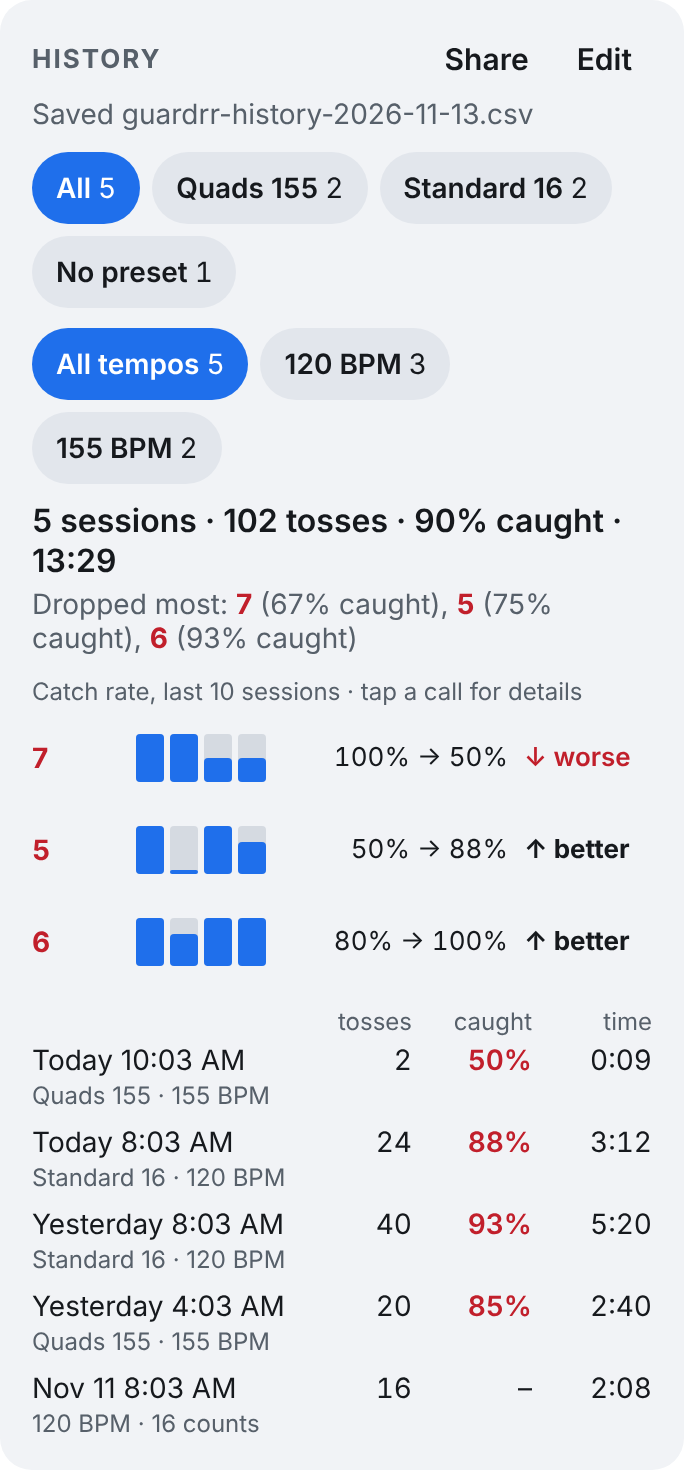
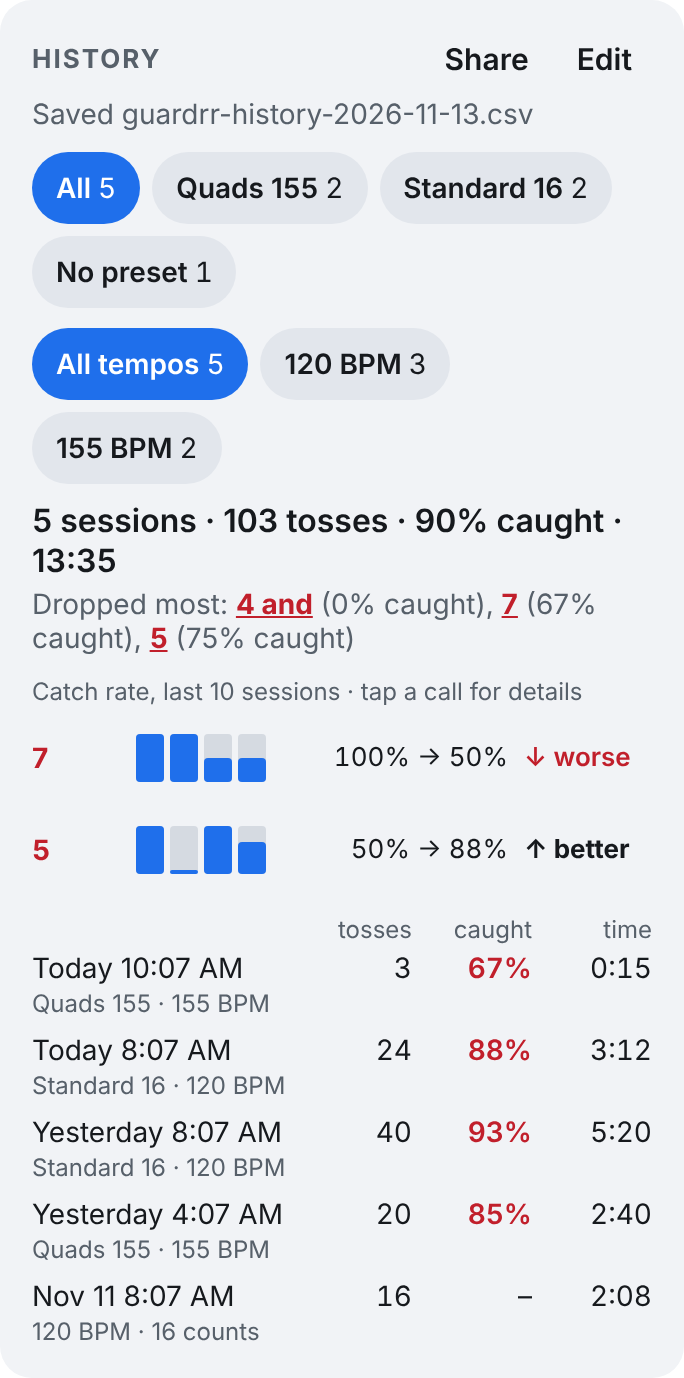
feat(ui): open a call's sessions from "Dropped most" in History
Each call under "Dropped most" is now tappable. A call with a trend opens
its detail under its trend row as before; a call seen in only one session
(no trend yet) opens it right under the "Dropped most" line
(callDetailAnchor). Smoke test and screenshot 21-dropped-detail added.

Claude-Session: https://claude.ai/code/session_01UV53BFdtzkwkUA4NLRTMzv

diff --git a/src/components/SessionHistoryCard.tsx b/src/components/SessionHistoryCard.tsx
@@ -11,6 +11,7 @@ import {
   TREND_SESSIONS,
   TrendDirection,
   callDetail,
+  callDetailAnchor,
   callTrends,
   combinedFilterLabel,
   deletionMessage,
@@ -194,6 +195,57 @@ export function SessionHistoryCard({
     () => (detailCall === null ? null : callDetail(shown, detailCall, nowMs)),
     [shown, detailCall, nowMs],
   );
+  const detailAnchor = callDetailAnchor(
+    trends.map((t) => t.call),
+    detail ? detail.call : null,
+  );
+  const detailPanel = detail ? (
+    <View style={styles.detailPanel} testID="history-call-detail">
+      <View style={styles.detailHeader}>
+        <Text style={styles.detailTitle} accessibilityRole="header">
+          {detail.label} — every session
+        </Text>
+        <Pressable
+          testID="history-call-detail-close"
+          onPress={() => setDetailCall(null)}
+          accessibilityRole="button"
+          accessibilityLabel={`Close ${detail.label} sessions`}
+          hitSlop={8}
+          style={({ pressed }) => [styles.headerButton, pressed && styles.morePressed]}
+        >
+          <Text style={styles.headerButtonText}>Close</Text>
+        </Pressable>
+      </View>
+      <Text style={styles.detailSummary}>
+        {detail.sessions} {detail.sessions === 1 ? 'session' : 'sessions'} · {detail.tosses}{' '}
+        {detail.tosses === 1 ? 'toss' : 'tosses'} · {detail.caught} caught
+      </Text>
+      {detail.rows.map((row) => (
+        <View
+          key={row.startedAt}
+          style={styles.detailRow}
+          accessible
+          accessibilityLabel={row.accessibilityLabel}
+        >
+          <View style={styles.dateColumn}>
+            <Text style={styles.date} numberOfLines={1}>
+              {row.date}
+            </Text>
+            <Text style={styles.detail} numberOfLines={1}>
+              {row.drill}
+            </Text>
+          </View>
+          <Text style={styles.detailCaughtOf}>{row.caughtOf}</Text>
+          <Text style={[styles.cell, row.drops > 0 && styles.dropped]}>{row.caught}</Text>
+        </View>
+      ))}
+      {detail.more > 0 ? (
+        <Text style={styles.detailMore}>
+          and {detail.more} older {detail.more === 1 ? 'session' : 'sessions'}
+        </Text>
+      ) : null}
+    </View>
+  ) : null;
   const editable = Boolean(onDelete || onClear);
   if (history.length === 0 && !editing && !undo) return null;
   const more = Math.min(shown.length, MANY_ROWS) - summary.rows.length;
@@ -334,21 +386,39 @@ export function SessionHistoryCard({
           {summary.hardest.length > 0 ? (
             <Text style={styles.hardest}>
               Dropped most:{' '}
-              {summary.hardest.map((c, i) => (
-                <Text key={c.call}>
-                  {i > 0 ? ', ' : ''}
-                  <Text style={styles.hardestCall}>{c.label}</Text> ({c.caught} caught)
-                </Text>
-              ))}
+              {summary.hardest.map((c, i) => {
+                const open = detail?.call === c.call;
+                return (
+                  <Text key={c.call}>
+                    {i > 0 ? ', ' : ''}
+                    <Text
+                      testID={`history-hardest-${c.call}`}
+                      onPress={() => setDetailCall(open ? null : c.call)}
+                      accessibilityRole="button"
+                      accessibilityState={{ expanded: open }}
+                      aria-expanded={open}
+                      accessibilityLabel={`${c.label}, ${c.caught} caught`}
+                      accessibilityHint={
+                        open ? 'Hides the sessions' : `Lists every session with a ${c.label}`
+                      }
+                      style={[styles.hardestCall, open && styles.hardestCallOpen]}
+                    >
+                      {c.label}
+                    </Text>{' '}
+                    ({c.caught} caught)
+                  </Text>
+                );
+              })}
             </Text>
           ) : null}
+          {detailAnchor === 'hardest' ? detailPanel : null}
           {trends.length > 0 ? (
             <View style={styles.trends} testID="history-trends">
               <Text style={styles.trendsTitle}>
                 Catch rate, last {TREND_SESSIONS} sessions · tap a call for details
               </Text>
               {trends.map((trend) => {
-                const open = detail?.call === trend.call;
+                const open = detailAnchor === 'trend' && detail?.call === trend.call;
                 return (
                   <Fragment key={trend.call}>
                     <Pressable
@@ -387,59 +457,7 @@ export function SessionHistoryCard({
                         {DIRECTION_TEXT[trend.direction]}
                       </Text>
                     </Pressable>
-                    {open && detail ? (
-                      <View style={styles.detailPanel} testID="history-call-detail">
-                        <View style={styles.detailHeader}>
-                          <Text style={styles.detailTitle} accessibilityRole="header">
-                            {detail.label} — every session
-                          </Text>
-                          <Pressable
-                            testID="history-call-detail-close"
-                            onPress={() => setDetailCall(null)}
-                            accessibilityRole="button"
-                            accessibilityLabel={`Close ${detail.label} sessions`}
-                            hitSlop={8}
-                            style={({ pressed }) => [
-                              styles.headerButton,
-                              pressed && styles.morePressed,
-                            ]}
-                          >
-                            <Text style={styles.headerButtonText}>Close</Text>
-                          </Pressable>
-                        </View>
-                        <Text style={styles.detailSummary}>
-                          {detail.sessions} {detail.sessions === 1 ? 'session' : 'sessions'} ·{' '}
-                          {detail.tosses} {detail.tosses === 1 ? 'toss' : 'tosses'} ·{' '}
-                          {detail.caught} caught
-                        </Text>
-                        {detail.rows.map((row) => (
-                          <View
-                            key={row.startedAt}
-                            style={styles.detailRow}
-                            accessible
-                            accessibilityLabel={row.accessibilityLabel}
-                          >
-                            <View style={styles.dateColumn}>
-                              <Text style={styles.date} numberOfLines={1}>
-                                {row.date}
-                              </Text>
-                              <Text style={styles.detail} numberOfLines={1}>
-                                {row.drill}
-                              </Text>
-                            </View>
-                            <Text style={styles.detailCaughtOf}>{row.caughtOf}</Text>
-                            <Text style={[styles.cell, row.drops > 0 && styles.dropped]}>
-                              {row.caught}
-                            </Text>
-                          </View>
-                        ))}
-                        {detail.more > 0 ? (
-                          <Text style={styles.detailMore}>
-                            and {detail.more} older {detail.more === 1 ? 'session' : 'sessions'}
-                          </Text>
-                        ) : null}
-                      </View>
-                    ) : null}
+                    {open ? detailPanel : null}
                   </Fragment>
                 );
               })}
@@ -587,7 +605,8 @@ const getStyles = themed((t: Theme) =>
     filterTextChecked: { color: t.onPrimary },
     filterCount: { fontWeight: '400', fontVariant: ['tabular-nums'] },
     hardest: { fontSize: 14, color: t.textMuted, marginTop: 4 },
-    hardestCall: { fontWeight: '700', color: t.dangerText },
+    hardestCall: { fontWeight: '700', color: t.dangerText, textDecorationLine: 'underline' },
+    hardestCallOpen: { backgroundColor: t.control },
     trends: { marginTop: 10, gap: 6 },
     trendsTitle: { fontSize: 12, color: t.textMuted },
     trendRow: {

diff --git a/src/engine/__tests__/callDetail.test.ts b/src/engine/__tests__/callDetail.test.ts
@@ -1,5 +1,5 @@
 import { SessionRecord } from '../history';
-import { callDetail } from '../historyTrend';
+import { callDetail, callDetailAnchor, callTrends } from '../historyTrend';
 
 const DAY = 86_400_000;
 // Local noon today, so "Today"/"Yesterday" don't depend on when the test runs.
@@ -83,5 +83,25 @@ describe('callDetail', () => {
     expect(detail.rows[0].accessibilityLabel).toMatch(
       /^Today \d+:\d\d [AP]M, Quads 155, 155 BPM: caught 4 of 5, 80%$/,
     );
+  });
+});
+
+describe('callDetailAnchor', () => {
+  it('opens under the trend row when the call has one, wherever it was tapped', () => {
+    expect(callDetailAnchor([7, 5], 7)).toBe('trend');
+  });
+
+  it('opens under "Dropped most" for a call with only one session', () => {
+    // 7 came up in two sessions (a trend); a 3 dropped once has no trend yet.
+    const history = [...HISTORY, record(NOW - 3 * DAY, { '3': 2 }, { '3': 1 })];
+    const trendCalls = callTrends(history, [7, 3]).map((t) => t.call);
+    expect(trendCalls).toEqual([7]);
+    expect(callDetailAnchor(trendCalls, 3)).toBe('hardest');
+    expect(callDetail(history, 3, NOW)?.rows.map((r) => r.caughtOf)).toEqual(['1 of 2']);
+  });
+
+  it('is null when no call is open', () => {
+    expect(callDetailAnchor([7], null)).toBeNull();
+    expect(callDetailAnchor([], null)).toBeNull();
   });
 });

diff --git a/e2e/smoke.js b/e2e/smoke.js
@@ -416,6 +416,23 @@ async function main() {
     await filterChip('all').click();
     await tempoChip('all').click();
 
+    // 5d1b. Tapping a call under "Dropped most" lists its sessions, even without a trend yet.
+    const droppedOnce = await page.evaluate(() => {
+      const stored = JSON.parse(localStorage.getItem('guardrr.history'));
+      return Object.keys(stored.sessions.find((r) => r.drops > 0).timesDropped)[0];
+    });
+    await page.getByTestId(`history-hardest-${droppedOnce}`).click();
+    const hardestDetail = page.getByTestId('history-call-detail');
+    const hardestText = (await hardestDetail.textContent().catch(() => '')) ?? '';
+    check(
+      'tapping a call under Dropped most lists its sessions',
+      /every session/.test(hardestText) &&
+        /\d+ sessions? · \d+ toss(es)? · \d+% caught/.test(hardestText),
+      hardestText.slice(0, 120) || 'no detail',
+    );
+    await page.getByTestId(`history-hardest-${droppedOnce}`).click();
+    check('a second tap on the call hides its sessions', !(await hardestDetail.isVisible()));
+
     // 5d2. Catch-rate trend: the dropped call practiced again, cleanly, reads "getting better".
     const historyBefore = await page.evaluate(() => {
       const json = localStorage.getItem('guardrr.history');

diff --git a/src/engine/historyTrend.ts b/src/engine/historyTrend.ts
@@ -228,3 +228,20 @@ export function callDetail(
     summary: `${label}: ${sessions} ${sessions === 1 ? 'session' : 'sessions'}, ${tosses} ${tosses === 1 ? 'toss' : 'tosses'}, ${caught} caught`,
   };
 }
+
+/** Where History shows an open call detail: under the call's trend row, or under "Dropped most". */
+export type CallDetailAnchor = 'trend' | 'hardest';
+
+/**
+ * Where the detail of `call` opens. A call with a trend row (2+ sessions)
+ * opens under that row, wherever it was tapped, so its bars stay in view; a
+ * call without one (a single session so far) opens under the "Dropped most"
+ * line it was tapped in. Null when no call is open.
+ */
+export function callDetailAnchor(
+  trendCalls: readonly number[],
+  call: number | null,
+): CallDetailAnchor | null {
+  if (call === null) return null;
+  return trendCalls.includes(call) ? 'trend' : 'hardest';
+}

diff --git a/scripts/screenshots.js b/scripts/screenshots.js
@@ -195,6 +195,13 @@ async function main() {
     await shot(historyCard, '19-call-detail');
     await page.setViewportSize({ width: 390, height: 844 });
     await page.getByTestId('history-call-detail-close').click();
+    // In Quads 155 (one session, so no trend bars yet) tap a call under "Dropped most".
+    await page.getByTestId('history-filter-preset:Quads 155').click();
+    await page.getByTestId('history-hardest-5').click();
+    await page.waitForTimeout(300);
+    await shot(historyCard, '21-dropped-detail');
+    await page.getByTestId('history-call-detail-close').click();
+    await page.getByTestId('history-filter-all').click();
 
     // Settings → Practice: the spoken count-off over the count-in.
     await page.getByRole('switch', { name: /Speak the count-off/ }).click();

diff --git a/README.md b/README.md
@@ -97,6 +97,10 @@ practice screen is Chromium's fake camera; on the phone it's you.
 | ------------------------------------------------------------------------------------------------- | --------------------------------------------------------------------- | ------------------------------------------------------------------------------------------ | ---------------------------------------------------------------------------------------------- |
 | ![Right after toss 2 is released, Drop still marks toss 1](docs/screenshots/17-drop-previous.png) | ![History filtered to 120 BPM](docs/screenshots/18-history-tempo.png) | ![Tapping the 7's trend lists every session with a 7](docs/screenshots/19-call-detail.png) | ![Count-off counted 1–8: "1 2 3 4, then the call"](docs/screenshots/20-count-off-straight.png) |
 
+| A call from "Dropped most"                                                                                       |
+| ---------------------------------------------------------------------------------------------------------------- |
+| ![Tapping the 5 under "Dropped most" in Quads 155 lists its one session](docs/screenshots/21-dropped-detail.png) |
+
 ## Tech
 
 - [Expo](https://expo.dev) (SDK 58) + React Native + TypeScript
